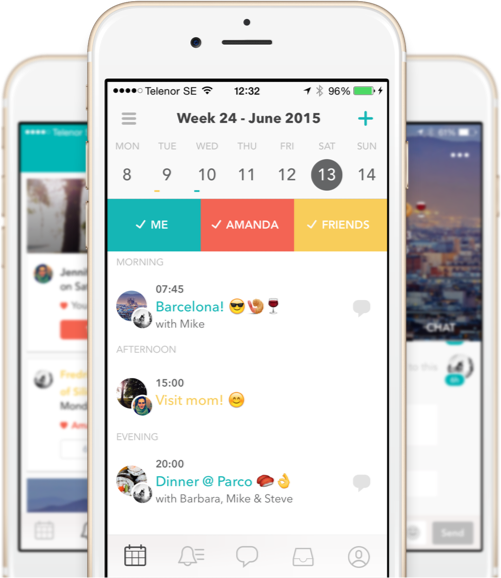
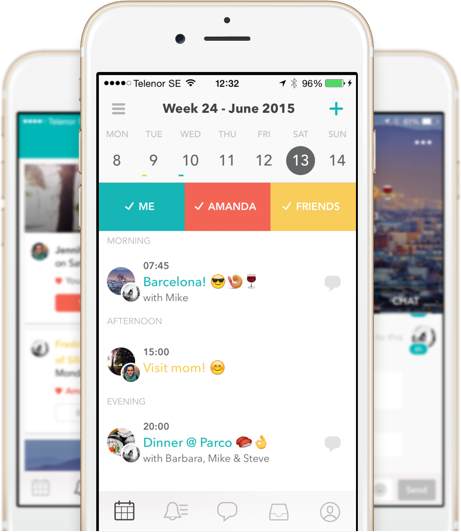
Tweak

diff --git a/index.html b/index.html
@@ -66,7 +66,7 @@
               <div id="appstore_container">
 <!--                 <div id="appstore"></div>
                 <div style="clear:both;"></div> -->
-                <p>LAUNCHING IN MAY*</p>
+                <!-- <p>LAUNCHING IN MAY*</p> -->
               </div>
           </div>
 
@@ -122,7 +122,7 @@
       <div class="section" id="signup">
         <div class="row">
           <div class="large-8 large-offset-2 medium-10 medium-offset-1 small-12 small-offset-0 columns center">
-            <h2>*We’re launching globally in May!</h2>
+            <h2>We’re launching in May!</h2>
             <p><strong>SIGN UP AND YOU’LL BE THE FIRST TO KNOW.</strong></p>
             <div id="signup_form">
               <!-- Begin MailChimp Signup Form -->
@@ -167,7 +167,7 @@
         	</div>
         </div>  
         <div class="row">
-        	<div class="medium-8 medium-offset-2 small-10 small-offset-1 columns center">
+        	<div class="medium-6 medium-offset-3 small-10 small-offset-1 columns center">
             	<p><small class="appleInfo">Apple, the Apple logo, iPhone and iPad are trademarks of Apple Inc., registered in the U.S. and other countries. App Store is a service mark of Apple Inc.</small></p>
           	</div>
         </div>

diff --git a/scss/app_v1.scss b/scss/app_v1.scss
@@ -410,12 +410,12 @@ h3
 	@media #{$large-up} {
 		margin-top: rem-calc(20px);
 		float: right;	
-		width:501px;
-		height:578px;
+		width:461px;
+		height:532px;
 
 		background-repeat:no-repeat;
 		background:url('../assets/images/promo_screen_new_1_large@2x.png');
-		background-size:501px 578px;
+		background-size:461px 532px;
 	}
 }
 
